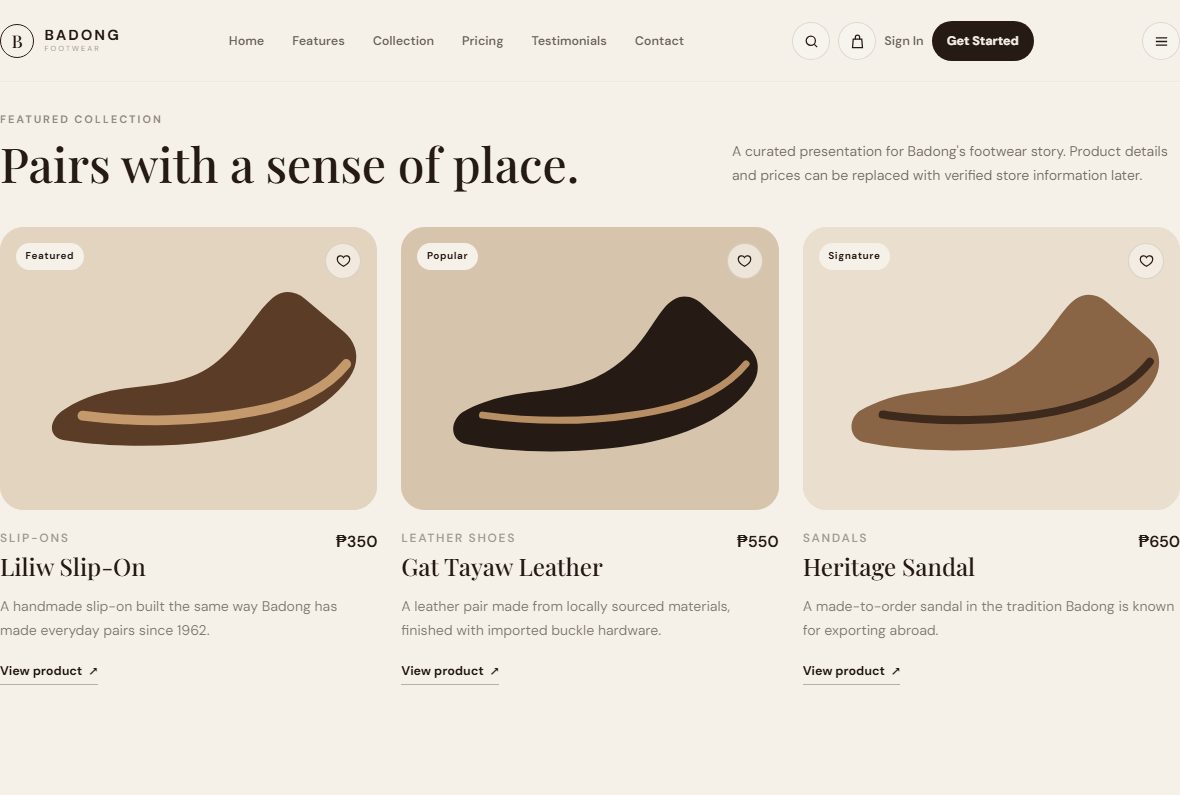
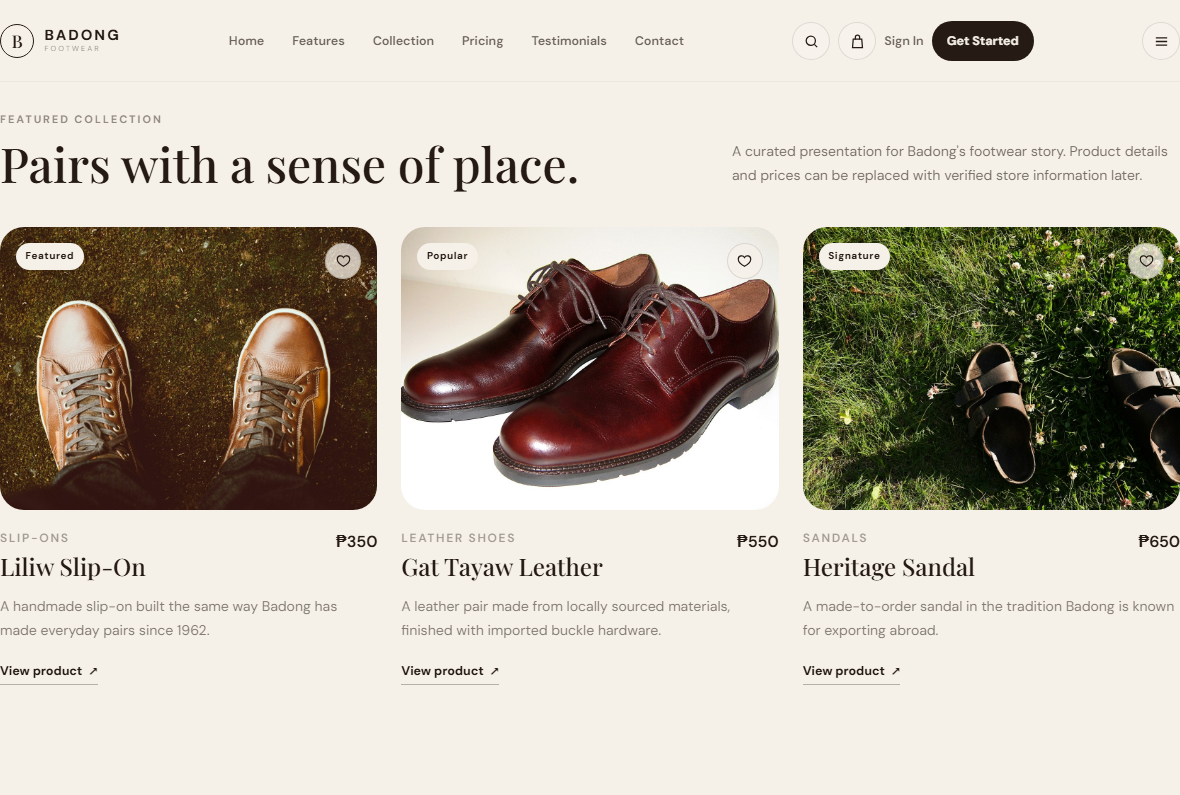
docs: add photo attribution and refresh screenshots
Document the source, photographer, and license for each real product
photo (Unsplash License / CC BY-SA 3.0) in a new Product Photography
section, and note why testimonial avatars were deliberately kept as
abstract icons instead of real people's photos. Re-captured all
screenshots against the page's real photography.

diff --git a/README.md b/README.md
@@ -215,6 +215,7 @@ To satisfy this requirement with real evidence of your own iteration, once you c
 | Leftover unused font plugin in `vite.config.js` | The default Laravel scaffold's `vite.config.js` referenced a Bunny Fonts plugin for a font the design doesn't use (the real design loads DM Sans/Playfair Display via Google Fonts in `app.css`). Removed the unused plugin and rebuilt. |
 | Automated screenshots showed most sections blank | The page uses an `IntersectionObserver`-driven `.reveal` scroll animation (sections start at `opacity: 0` until scrolled into view). A synthetic scroll didn't reliably trigger every element in time for the screenshot. Fixed by having the screenshot script force the `visible` class after scrolling through the page — the same end state a real visitor reaches by scrolling. |
 | Required nav items (Features, Pricing, Testimonials, Sign In, Get Started) were missing | The starter kit's navbar used different labels (Collection, About, Craftsmanship, Stories) and a single CTA button. Updated the navbar to include the required links and both a Sign In and Get Started button. |
+| Product images were abstract SVG illustrations, not real photos | Replaced with real, freely-licensed footwear photography (see [Product Photography](#product-photography)). Several first-choice stock photos had to be discarded after visual inspection revealed a competing shoe brand's name printed on the insole (Barker, Grant Stone, Helmsman) — using those would have put another company's branding on Badong's page. |
 | Rubric asks for SaaS-style CTAs (Register / Contact Sales / Start Free Trial) on a physical retail shop | Adapted rather than forced: "Contact Sales" is genuinely appropriate (Badong does wholesale/export business), "Register" became "Create an Account," and "Start Free Trial" — which has no equivalent for a shoe shop — became "Visit Us in Liliw," since visiting and trying shoes on is the retail equivalent of a trial. |
 
 ---
@@ -235,9 +236,22 @@ The historical and factual details used to replace generic placeholder copy (fou
 - [Manila Shopper: Footwear Shopping in Liliw, Laguna](https://www.manilashopper.com/2012/04/footwear-shopping-at-liliw-laguna.html)
 - [Badong Footwear on Facebook](https://www.facebook.com/badongfootwear/)
 
+## Product Photography
+
+The product and category images are **real photographs**, not the stylized SVG illustrations the starter kit shipped with — but they are stock/freely-licensed photography of similar footwear, not verified photos of Badong Footwear's own actual inventory (I have no legitimate way to obtain and redistribute the shop's own product photos without their permission). Every photo was checked by hand and any shot showing a visible competing brand name (several early candidates turned out to be branded product photography for other shoe companies) was rejected before use.
+
+| File | Subject | Photographer | Source | License |
+|---|---|---|---|---|
+| `shoe-1.jpg`, `hero-shoe.jpg`, `category-casual.jpg` | Brown leather lace-up boots | Bruno Nascimento | [Unsplash](https://unsplash.com/photos/person-wearing-brown-leather-shoes-xhthZII8yoE) | Unsplash License (free, commercial use OK) |
+| `shoe-2.jpg`, `category-heritage.jpg` | Brown derby leather dress shoes | Ch Th Jo | [Wikimedia Commons](https://commons.wikimedia.org/wiki/File:Mens_brown_derby_leather_shoes.jpg) | CC BY-SA 3.0 — **requires attribution** and share-alike on reuse |
+| `shoe-3.jpg`, `category-sandals.jpg` | Buckled leather sandals | Stephanie Hau | [Unsplash](https://unsplash.com/photos/black-and-brown-leather-sandals-on-green-grass-sNkpa8TLeFs) | Unsplash License (free, commercial use OK) |
+| `category-slippers.jpg` | Striped flip-flops | David Trinks | [Unsplash](https://unsplash.com/photos/a-pair-of-flip-flops-on-the-sand-glfcz6er-nA) | Unsplash License (free, commercial use OK) |
+
+Testimonial avatars (`avatar-1.svg`, `avatar-2.svg`, `avatar-3.svg`) were deliberately **kept as abstract icons**, not swapped for real people's stock photos — the testimonial quotes are fictional placeholder content, and pairing them with a real photographed person's face would misrepresent that individual as a genuine reviewer.
+
 ## Important Content Note
 
-Product names, exact prices, and testimonials on this page are **illustrative example content** for this school project, not verified, official information from Badong Footwear. Before presenting this page as the shop's real website, replace them with real product names, real prices, and real customer testimonials obtained with permission.
+Product names, exact prices, and testimonials on this page are **illustrative example content** for this school project, not verified, official information from Badong Footwear. Before presenting this page as the shop's real website, replace them with real product names, real prices, real product photos, and real customer testimonials obtained with permission.
 
 ---
 
